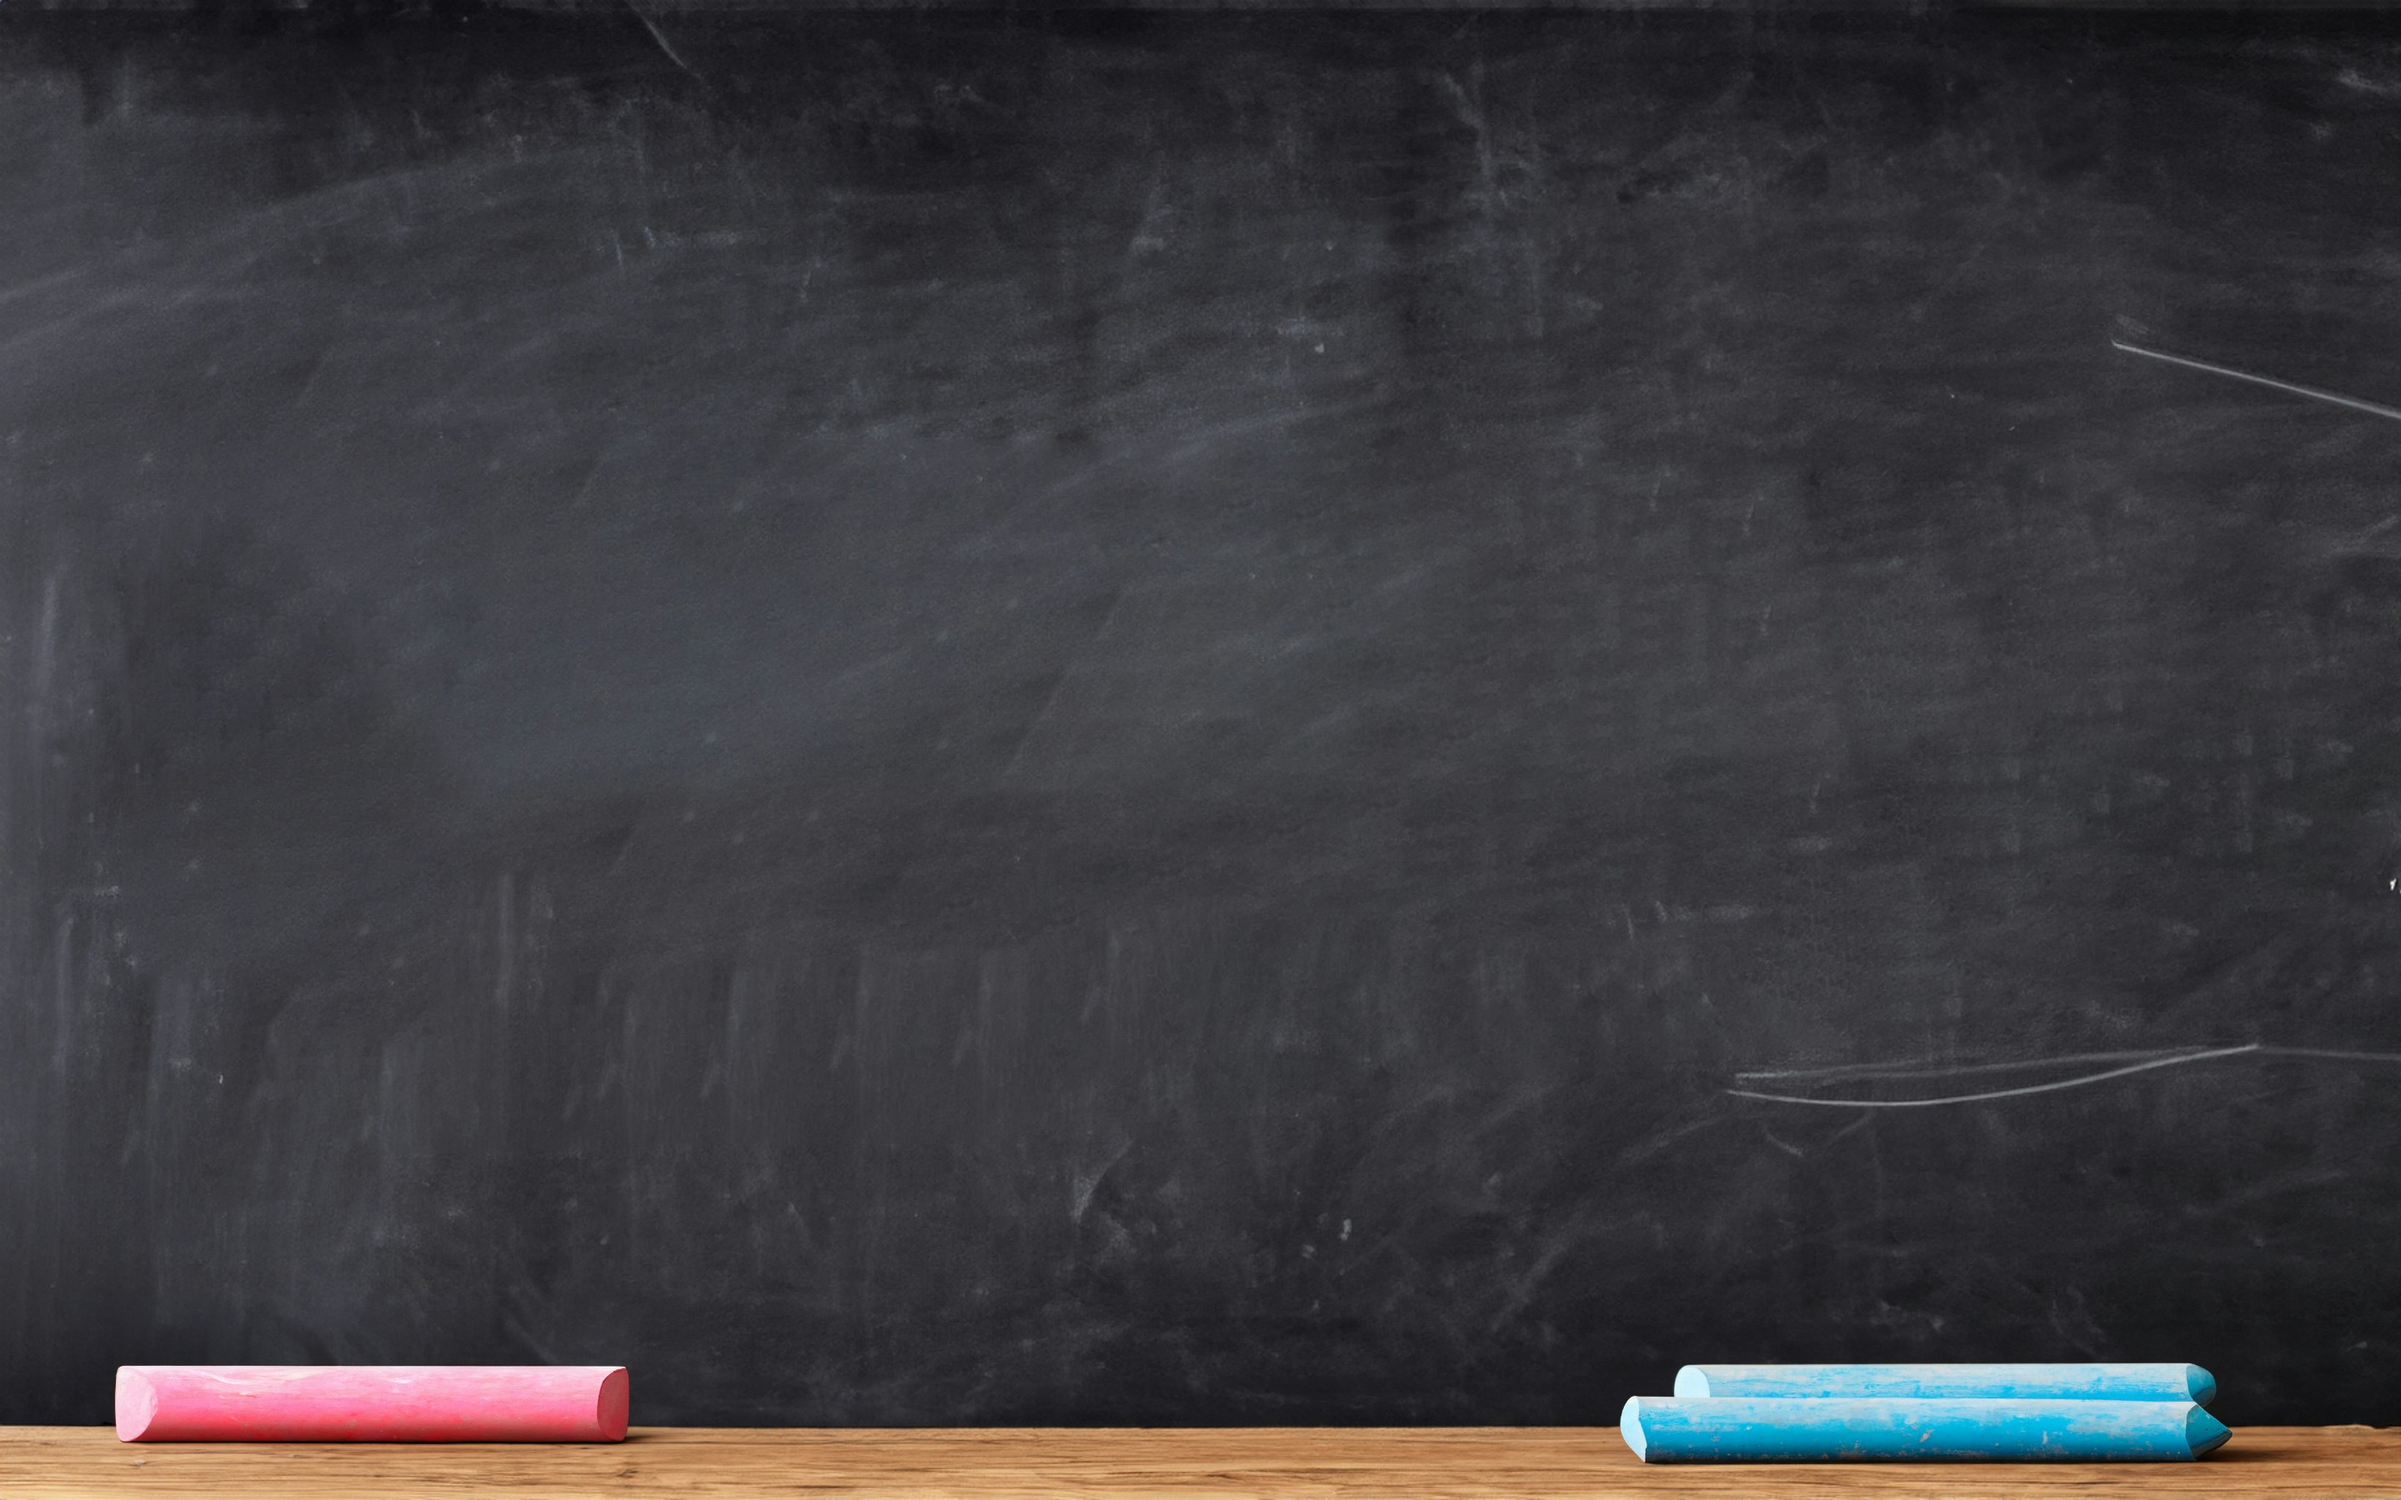
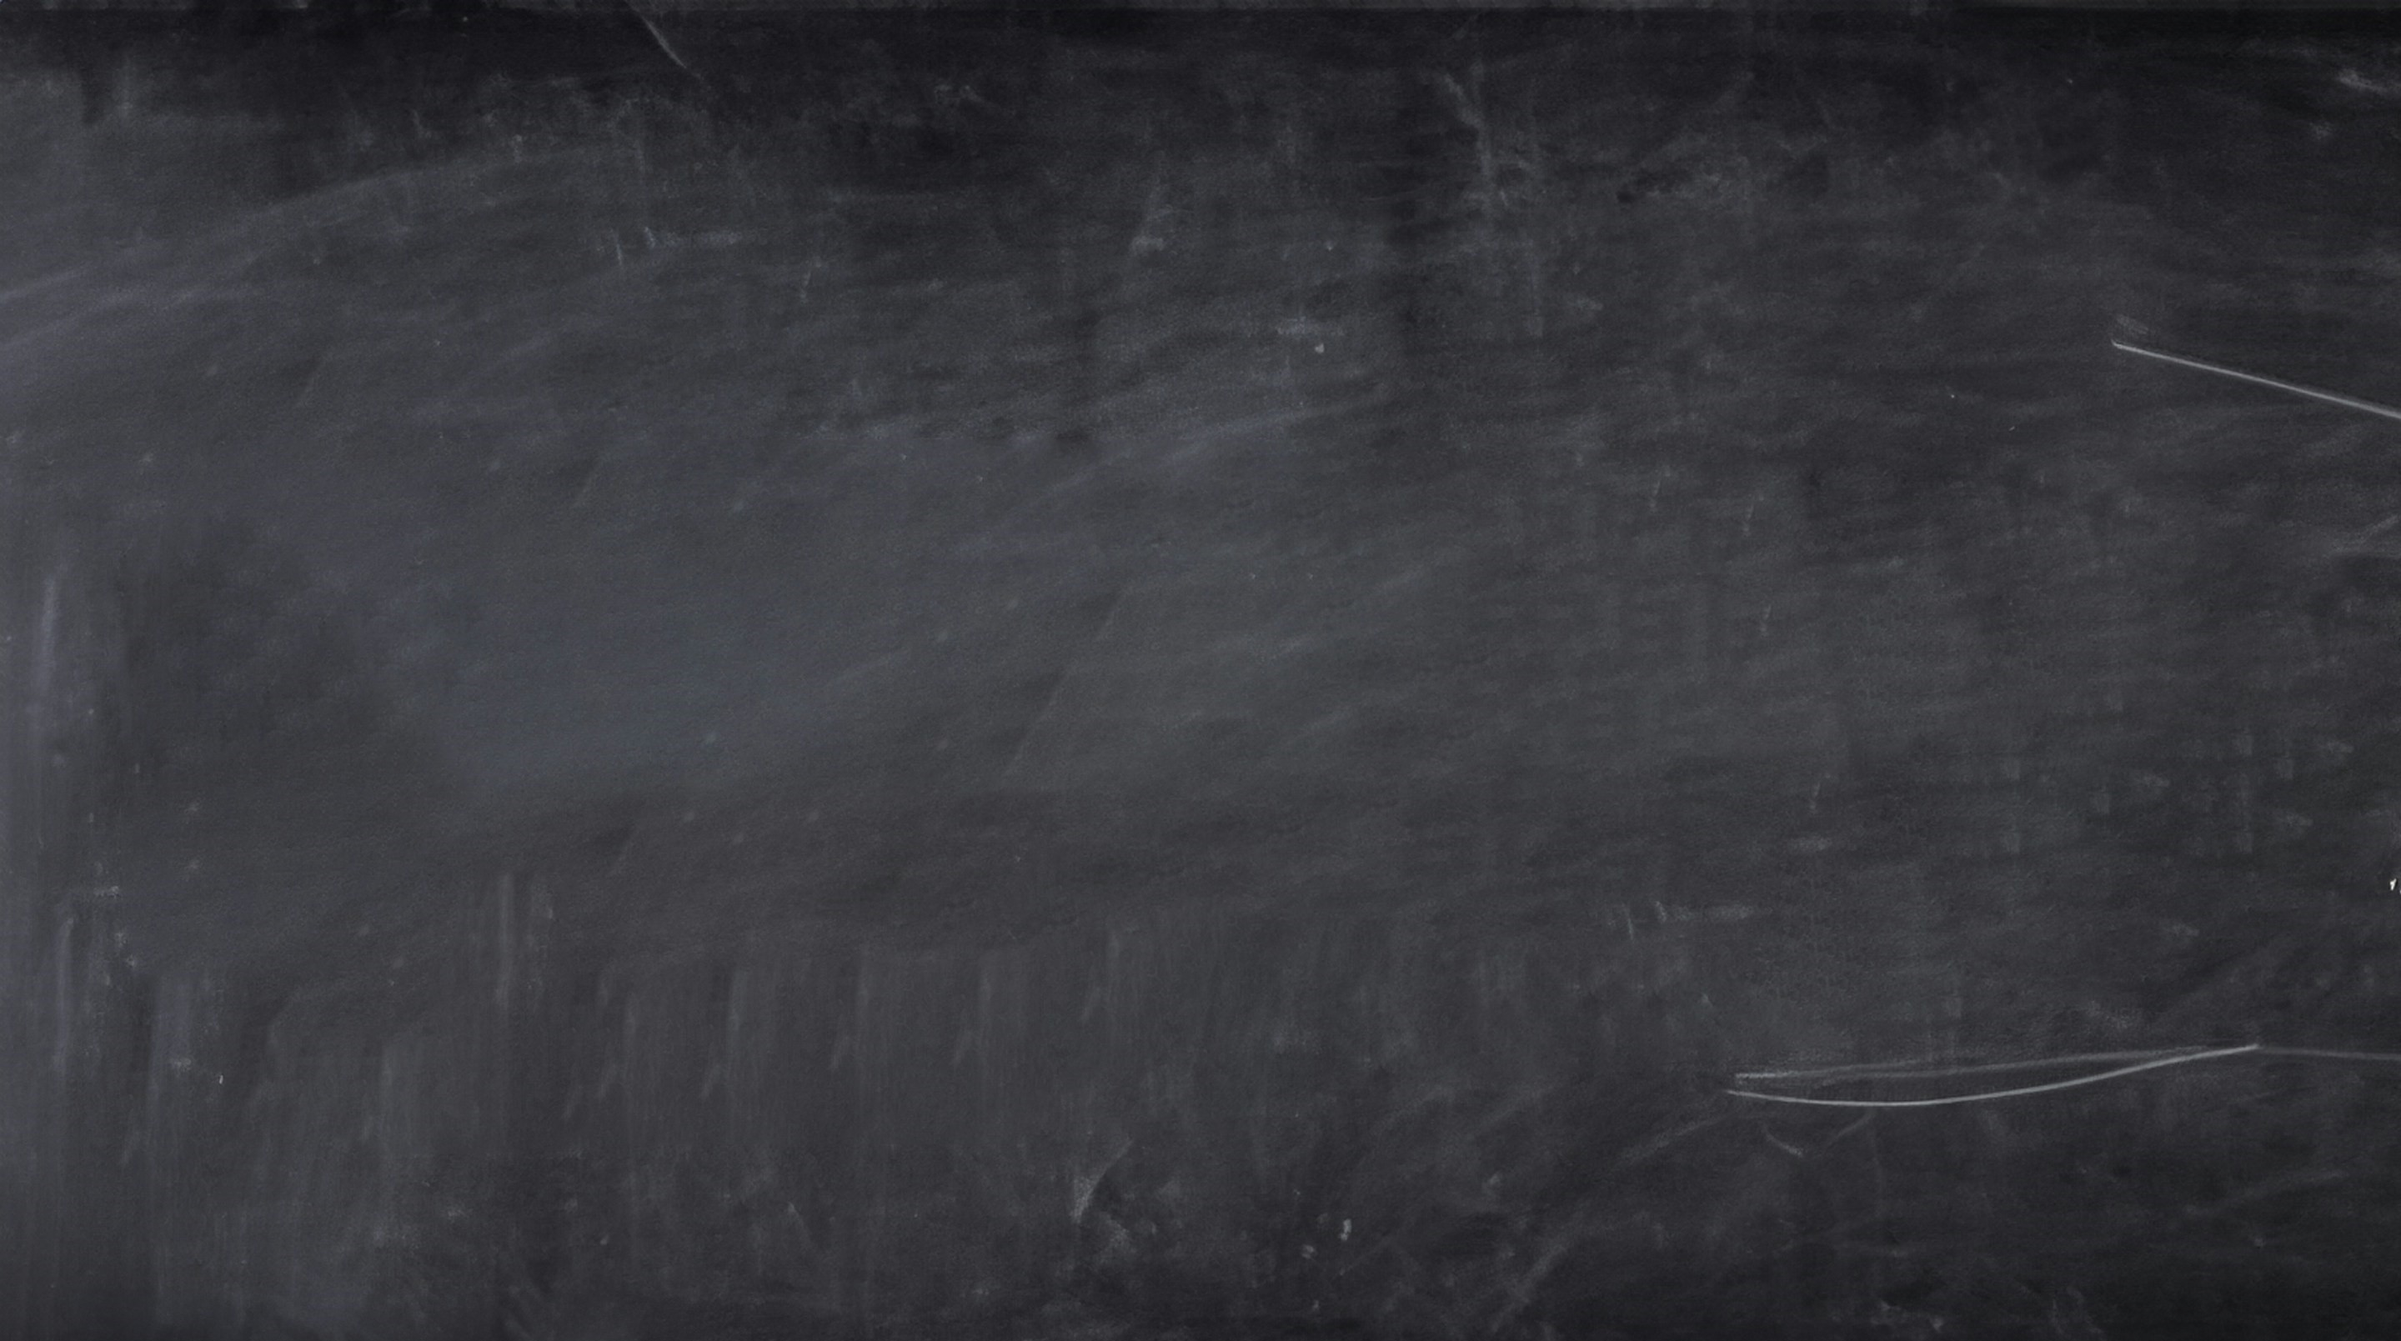
Got the table to front and added some transitions on resources

diff --git a/frontend/src/pages/About.jsx b/frontend/src/pages/About.jsx
@@ -10,8 +10,8 @@ export default function About() {
         <div className="aboutus">
             <span className="contact-head">About Us</span>
 
-            <section className="team-container res">
-                <div className="res-inner res-inner-contact">
+            <section className="team-container ">
+                <div className="res-inner-contact">
                     Welcome to our platform, crafted by a team of dedicated
                     students who understand the pressures of college life. We
                     built this resource hub to simplify last-minute study prep,
@@ -25,8 +25,8 @@ export default function About() {
 
             <span className="contact-head">Team</span>
 
-            <section className="team-container res">
-                <div className="res-inner res-inner-contact">
+            {/* <section className="team-container">
+                <div className="res-inner-contact">
                     <img src={devesh} className="profile-photo" />
                     <span>Devesh Agarwal</span>
                     <p>
@@ -45,7 +45,7 @@ export default function About() {
                     </p>
                 </div>
 
-                <div className="res-inner res-inner-contact">
+                <div className="res-inner-contact">
                     <img src={akshata} className="profile-photo" />
                     <span>Akshata Bakre</span>
                     <p>
@@ -63,7 +63,7 @@ export default function About() {
                         </a>
                     </p>
                 </div>
-                <div className="res-inner res-inner-contact">
+                <div className="res-inner-contact">
                     <img src={akshat} className="profile-photo" />
                     <span>Akshat Mishra</span>
                     <p>
@@ -81,7 +81,7 @@ export default function About() {
                         </a>
                     </p>
                 </div>
-                <div className="res-inner res-inner-contact">
+                <div className="res-inner-contact">
                     <img src={divyansh} className="profile-photo" />
                     <span>Divyansh Sharma</span>
                     <p>
@@ -100,7 +100,7 @@ export default function About() {
                         </a>
                     </p>
                 </div>
-            </section>
+            </section> */}
         </div>
     );
 }

diff --git a/frontend/src/pages/Resources.jsx b/frontend/src/pages/Resources.jsx
@@ -25,14 +25,14 @@ export default function Resources() {
                     overflow: "hidden",
                 }}
             >
+                <motion.div initial={{opacity: 0}} animate={{opacity: 1}} transition={{duration: .5}} exit={{opacity: 0}} className="overlay"></motion.div>
                 <div className="res">
-                    <AnimatePresence>
                         <motion.div
                             className="res-inner"
                             initial={{ top: "140%", y: "-50%" }}
                             animate={{ top: "calc(50vh)" }}
                             exit={{ top: "140%" }}
-                            transition={{ duration: 2, ease: "backInOut" }}
+                            transition={{ duration: 1, ease: "backInOut" }}
                         >
                             <img
                                 className="notice-board"
@@ -81,7 +81,6 @@ export default function Resources() {
                                 path={redirect}
                             />
                         </motion.div>
-                    </AnimatePresence>
                 </div>
             </div>
         </>

diff --git a/frontend/src/components/Backdrop.jsx b/frontend/src/components/Backdrop.jsx
@@ -1,16 +1,21 @@
 import React from "react";
 import secion1Image from "../assets/chalk-bg.jpg";
-import tableImage from "../assets/tabel-front.png"
-import "./Backdrop.css"
+import tableImage from "../assets/tabel-front.png";
+import "./Backdrop.css";
 
 export default function Backdrop() {
     return (
-        <div className="backdrop">
-            <div className="sec-1">
+        <>
+            <div className="backdrop">
                 <img className="bg-img" src={secion1Image} alt="" />
-                <img className="bg-img" style={{zIndex: 80}} src={tableImage} alt="" />
             </div>
-            {/* <div className="overlay"></div> */}
-        </div>
+            <div className="frontdrop">
+                <img
+                    className="front-img"
+                    src={tableImage}
+                    alt=""
+                />
+            </div>
+        </>
     );
 }

diff --git a/frontend/src/components/Backdrop.css b/frontend/src/components/Backdrop.css
@@ -1,17 +1,21 @@
 .backdrop {
     position: fixed;
-    inset: -10px;
+    inset: 0;
+    bottom: -2px;
     overflow: hidden;
     z-index: -1;
 }
 
-.sec-1 {
-    height: 100%;
-    width: 100%;
+.frontdrop{
+    position: fixed;
+    bottom: -2px;
+    right: 0;
+    left: 0;
     overflow: hidden;
+    z-index: 999;
 }
 
-.sec-1 .bg-img {
+.bg-img {
     height: 100%;
     width: 100%;
     position: relative;
@@ -19,11 +23,8 @@
     object-position: bottom;
 }
 
-.sec-1 .books-img{
-    position: absolute;
-    bottom: 15vh;
-    right: 10vw;
-    height: 30vh;
+.front-img{
+    width: 100%;
 }
 
 .overlay {
